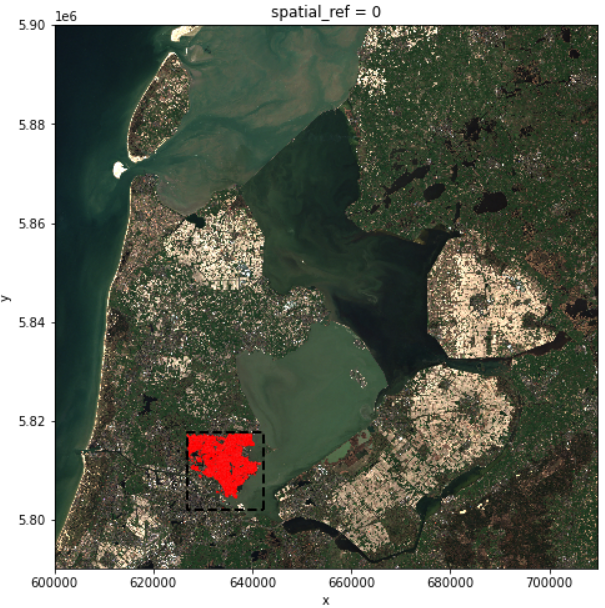
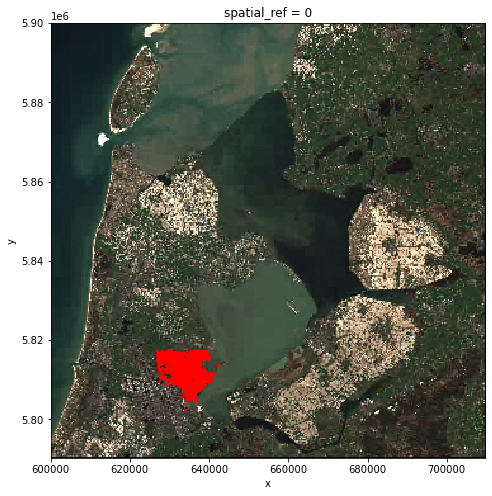
using overview as the basemap to improve the performance

Changed region(s): [[0.0305, 0.0, 1.0, 0.998], [0.4573, 0.2419, 0.4878, 0.2722], [0.0, 0.4839, 0.0305, 0.5141]]

diff --git a/_episodes/08-crop-raster-data.md b/_episodes/08-crop-raster-data.md
@@ -49,17 +49,21 @@ print(true_color_image.shape)
 ~~~
 {: .output}
 
-The raster data is quite big. If we want to visualize it, it takes several minutes:
+The raster data is quite big. It will not be wise to visualize the entire image. To investigate the coverage of the image, we can plot the "overview" asset. 
 
 ~~~
+# Get the overview asset
+overview_image = rioxarray.open_rasterio(items[1].assets["overview"].href)
+print(overview_image.shape)
+
 # Visualize it
-true_color_image.plot.imshow(figsize=(8,8))
+overview_image.plot.imshow(figsize=(8,8))
 ~~~
 {: .language-python}
 
-<img src="../fig/20-crop-raster-original-raster-00.png" title="Overview of the raster"  width="512" style="display: block; margin: auto;" />
+<img src="../fig/20-crop-raster-overview-raster-00.png" title="Overview of the raster"  width="512" style="display: block; margin: auto;" />
 
-But do we need the entire raster? Suppose we are interested in the crop fields. To compare its coverage with the raster data, we first check the coordinate systems of both raster and vector data. For raster data, we use `pyproj.CRS`:
+As we can see the overview image is much smaller comparing to the original true color image. Therefore the visualization is much faster. Suppose we are interested in the crop fields. We would like to know where are crop fields locate in the image. To compare its coverage with the raster data, we first check the coordinate systems of both raster and vector data. For raster data, we use `pyproj.CRS`:
 
 ~~~
 from pyproj import CRS
@@ -129,9 +133,6 @@ from matplotlib import pyplot as plt
 # Convert the coordinate system
 cf_boundary_crop = cf_boundary_crop.to_crs(true_color_image.rio.crs)
 
-# Create a bounding box
-bb_cropfields = box(*cf_boundary_crop.total_bounds)
-
 # Plot
 fig, ax = plt.subplots()
 fig.set_size_inches((8,8))
@@ -142,27 +143,17 @@ true_color_image.plot.imshow(ax=ax)
 # Plot crop fields
 cf_boundary_crop.geometry.boundary.plot(
     ax=ax,
-    facecolor="white",
     edgecolor="red",
-    linewidth = 0.5,
-
 )
-
-# Plot bounding box
-plt.plot(*bb_cropfields.exterior.xy,
-         color="black",
-         linewidth = 2,
-         linestyle = '--',
-        )
 ~~~
 {: .language-python}
 
 <img src="../fig/20-crop-raster-bounding-box-01.png" title="Bounding boxes of AoI over the raster"  width="512" style="display: block; margin: auto;" />
 
-Seeing from the bounding boxes, the crop fields (red) only takes a small part of
+Seeing from the location of the polygons, the crop fields (red) only takes a small part of
 the raster. Therefore before actual processing, we can first crop the raster to
 our area of interest. The `clip_box` function allows one to crop a raster by the
-min/max of the x and y coordinates.
+min/max of the x and y coordinates. Note that we are croping the original image `true_color_image` now, but not the overview image `overview_image`.
 
 ~~~
 # Crop the raster with the bounding box
